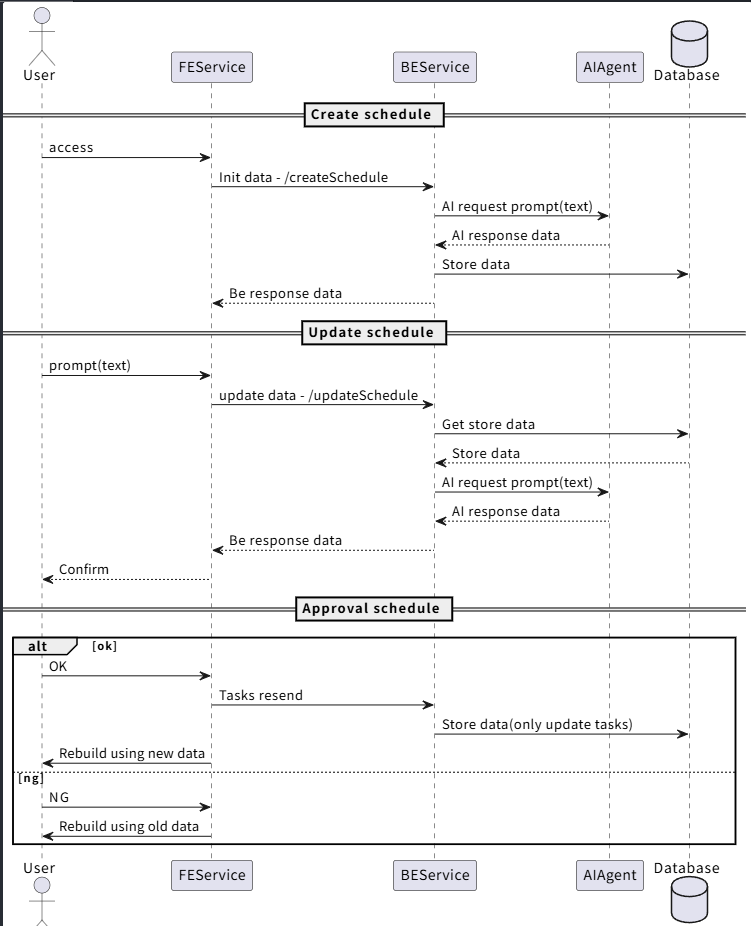
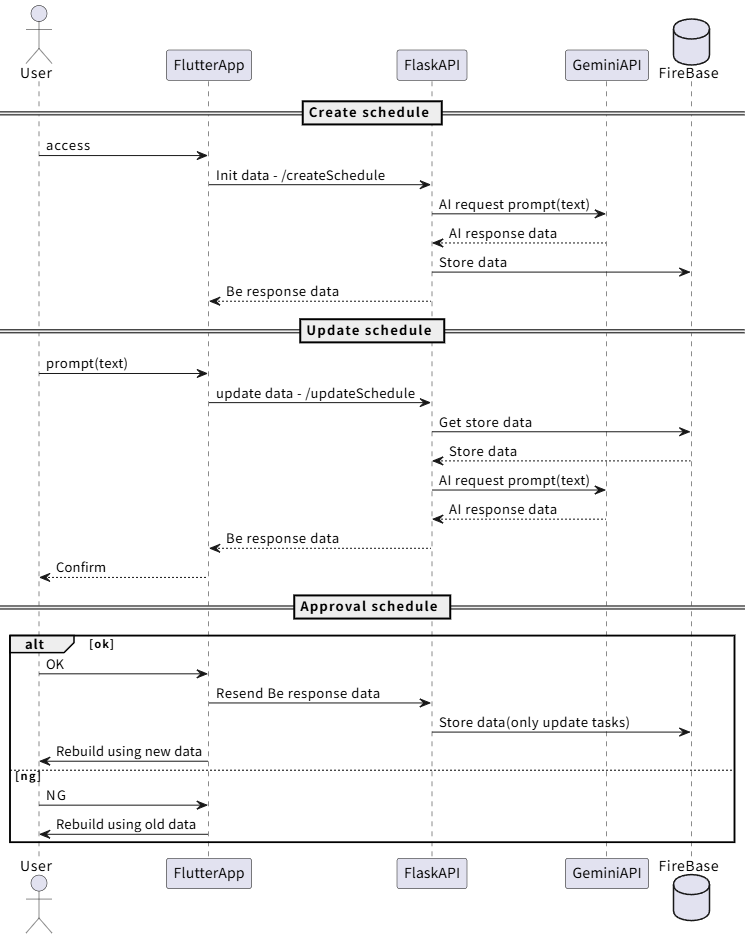
Update README

diff --git a/README.md b/README.md
@@ -1,4 +1,70 @@
 # DreamGenie
 
-## sequence
+## Overview
+DreamGenieは、学習や作業計画をAIが自動で補助してくれるアプリです。  
+「面倒な計画はAIに任せて、ユーザーは実作業に集中できる」ことをコンセプトにしています。  
+
+ユーザーは学習や作業のゴールを入力するだけで、タスクの細分化から計画の立案、ガントチャートの生成までを自動で行います。  
+さらに、予定の変更や追加にも柔軟に対応し、AIが即座にスケジュールを再調整してくれます。  
+
+## Features
+- **自動タスク分解 & 計画生成**  
+  学習目標やプロジェクトを入力するだけで、AIが最適なステップに分解してスケジュール化。  
+
+- **ガントチャート生成**  
+  計画を可視化し、進行状況を直感的に把握可能。  
+
+- **柔軟な予定変更**  
+  例:  
+  - 「来週に旅行が入っちゃったから一週間遅らせて！」  
+  - 「初歩的な文法が分からないから基礎勉強を予定に組み込んで！」  
+  こうした変更や追加リクエストにAIが即時対応。  
+
+- **学習に集中できるUX**  
+  面倒な計画立案を完全にAIに委任できるため、ユーザーは実際の学習や作業に専念できます。  
+
+## Demo
+### Create Page
+![alt text](create-page.png)
+- タイトル、目標、期間を入力
+
+### Gant Page
+![alt text](gant-page.png)
+- ガントチャートが自動で作成される
+- AIとチャット形式でやり取りできる
+
+## Architecture
+![alt text](architecture.png)
+
+DreamGenieは**モノリポ構成**で開発されています。  
+
+- `dream_genie`: Flutter製のフロントエンドアプリ  
+- `DreamGenie-BE`: Python (Flask) 製のバックエンド  
+- `schema`: FE-BE間でのHTTP通信に用いるJSONスキーマを定義  
+
+## Sequence diagram
 ![alt text](sequence.png)
+
+## Deployment
+- **インフラ**: GCP CloudRun  
+- **Docker**: BE/FEともにDockerイメージを用意し、CloudRunにデプロイ  
+- **CI/CD**: フロントエンドはGitHub Actionsで自動デプロイを実現  
+
+## Requirements
+- Flutter 3.35.3 
+- Python 3.10 + Flask 
+- Docker 27.3.1
+- GCP (CloudRun, Artifact Registry など)  
+
+## Installation
+```bash
+# フロントエンド
+cd dream_genie
+flutter pub get
+flutter run
+
+# バックエンド
+cd DreamGenie-BE
+pip install -r requirements.txt
+flask run
+```
